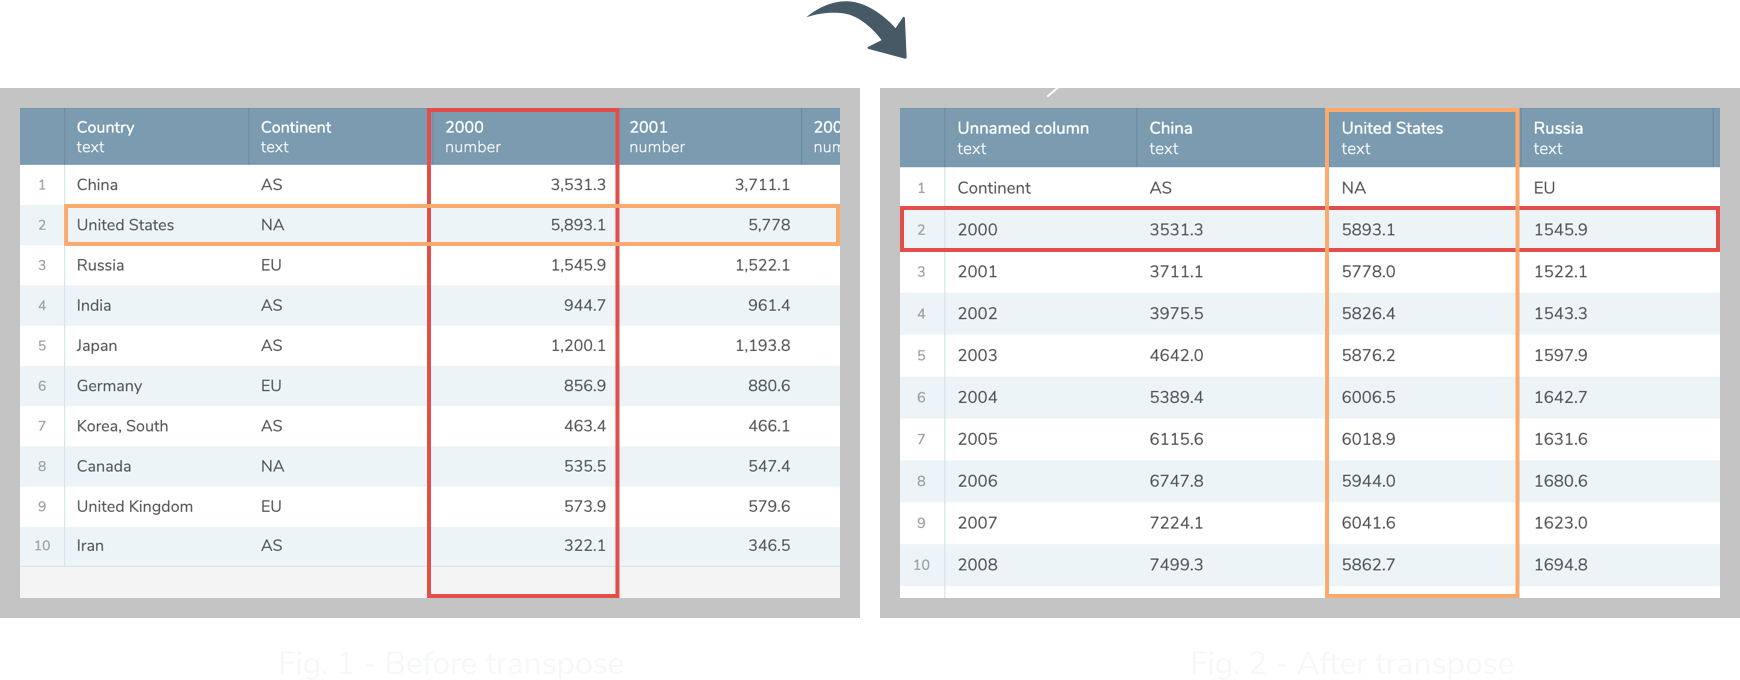
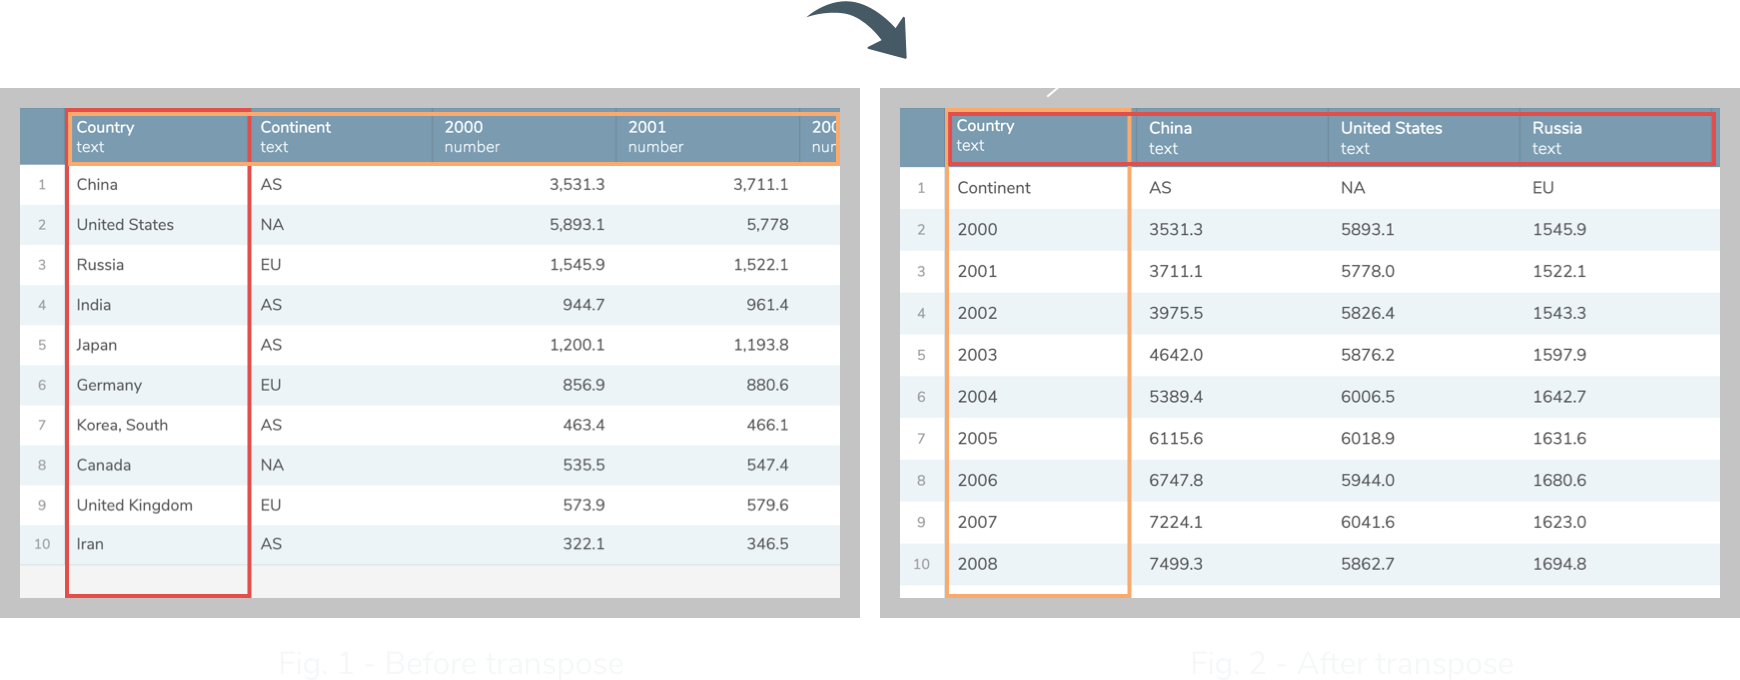
Course WIP

diff --git a/server/lessons/hidden/charts-intro.html b/server/lessons/hidden/charts-intro.html
@@ -35,23 +35,23 @@
 <section>
   <h2>When to transpose</h2>
   <p>
-    Let’s look closely at our table.
+    Let’s look closely at our table.</br>
+    In Workbench charts are plotted by selecting data in columns.
   </p>
-  <p>
-    In Workbench charts are plotted by selecting data in columns. We cannot select <kbd>China</kbd>, because it is displayed as a row.<br>
+    We cannot select <kbd>China</kbd>, because it is displayed as a row.<br>
     Likewise, there is no column <kbd>Year</kbd> to select. Instead, each year is its own column.
-    <br />
   </p>
-  <p class="instruction-detail"> If we want to select variables that are displayed as rows, we must turn them into columns. This is called transposing.
+  <p class="instruction-detail">
+    If we want to select variables that are displayed as rows, we must turn them into columns. This is called transposing.
   </p>
 </section>
 <section class="fullscreen">
   <h2>How Transpose works</h2>
   <p>
-    Transposing turns rows into columns and columns into rows. Doing so, it swaps the header with the left-most column.
+    Transposing swaps the header with the left-most column. Doing so, it turns rows into columns and columns into rows.
   </p>
   <p>
-    Since the header in fig.1 does not have a name, we have to name it when it becomes the new left-most column in fig.2. Likewise, after transposing, the name of the left-most column in fig.1 will not be displayed anymore in fig.2.
+    Since the left-most column in fig.1 becomes a header in fig.2, you will often have to rename the name of the new left-most column in fig.2.
   </p>
   <figure class="full">
     <img class="no-border" alt="Inspect element" src="images/course-1/transpose-fig-1.png">
@@ -70,12 +70,16 @@
     <li
       data-highlight='[{"type":"Module","index":0,"name":"Add from URL"}]'
       data-test="return workflow.tabs[0].wfModuleNames[0] === 'Add from URL'"
-      >Click the <kbd>Continent</kbd> column menu and choose <kbd>Delete column</kbd>.
+      >Click the<kbd>Continent</kbd>column menu
+      <span>
+        <img class="icon-insert" src="images/lesson-icons/menu.svg">
+      </span>
+      and choose<kbd>Delete column</kbd>.
     </li>
     <li
       data-highlight='[{"type":"Module","index":0,"name":"Add from URL"}]'
       data-test="return workflow.tabs[0].wfModuleNames[0] === 'Add from URL'"
-      >Add a Transpose step and name the new leftmost column <kbd>Year</kbd>.
+      >Add a Transpose step and name the new leftmost column<kbd>Year</kbd>.
       <p class="instruction-detail">
         Now we can plot China’s output.
       </p>
@@ -83,7 +87,7 @@
     <li
       data-highlight='[{"type":"Module","index":0,"name":"Add from URL"}]'
       data-test="return workflow.tabs[0].wfModuleNames[0] === 'Add from URL'"
-      >Add a Column Chart, select <kbd>Year</kbd> as the X axis, and <kbd>China</kbd> as the Y axis.
+      >Add a Column Chart, select<kbd>Year</kbd> as the X axis, and<kbd>China</kbd>as the Y axis.
     </li>
   </ol>
 </section>
@@ -97,7 +101,7 @@
     Line charts, however, should not be used with anything else than a horizontal axis representing time. Drawing a line between ’China’ and ‘Russia’, would make no sense: There is no in-between value, and the chart would show something that doesn’t exist!
   </p>
   <figure class="full">
-    <img class="no-border" alt="Inspect element" src="images/course-1/when-to-use-line-chart.png">
+    <img alt="Inspect element" src="images/course-1/when-to-use-line-chart.png">
   </figure>
 </section>
 <section>
@@ -109,18 +113,21 @@
     <li
       data-highlight='[{"type":"Module","index":0,"name":"Add from URL"}]'
       data-test="return workflow.tabs[0].wfModuleNames[0] === 'Add from URL'"
-      > In step 4, Replace the column chart with a line chart.
+      > After the Column chart, add a Line chart step.
     </li>
     <li
       data-highlight='[{"type":"Module","index":0,"name":"Add from URL"}]'
       data-test="return workflow.tabs[0].wfModuleNames[0] === 'Add from URL'"
-      >Select the variable <kbd>Year</kbd> as the X axis and  <kbd>China</kbd> on the Y axis.
+      >Select the variable<kbd>Year</kbd>as the X axis and<kbd>China</kbd>on the Y axis.
       <p class="instruction-detail">Now let’s compare China’s production of CO2 to that of other countries.</p>
     </li>
     <li
       data-highlight='[{"type":"Module","index":0,"name":"Add from URL"}]'
       data-test="return workflow.tabs[0].wfModuleNames[0] === 'Add from URL'"
-      >In Line chart, select 4 additional countries of your choice on the Y axis.
+      >In Line chart, select 4 additional countries of your choice on the Y axis by clicking the add button
+      <span>
+        <img class="icon-insert" src="images/lesson-icons/add.svg">
+      </span>.
     </li>
   </ol>
 </section>

diff --git a/assets/css/components/Lesson.scss b/assets/css/components/Lesson.scss
@@ -22,10 +22,13 @@ article.lesson {
     width: 32rem;
     padding: 1rem;
     background-color: $dark-accent--medium;
-    &.icon-insert {
-      padding:0;
-      background-color: transparent;
-    }
+  }
+
+  .icon-insert {
+    padding:0;
+    background-color: transparent;
+    padding: .5rem;
+    width:3rem;
   }
 
   section {
@@ -144,15 +147,10 @@ article.lesson {
       font-weight: normal;
       color: $brand-text--learn;
       background-color: transparent;
+      margin: 0 .2rem;
     }
 
     .icon-insert {
-      @extend .content-1;
-      margin: 0 .5rem;
-      padding: .5rem;
-      width:2.7rem;
-      border-radius: 3px;
-      background-color: $light-accent--soft;
 
     }
 
@@ -311,7 +309,7 @@ article.fullscreen {
   }
 
   figure.full img {
-    padding: 0;
+    padding: 1rem;
     margin-top: 2rem;
     width: 100%;
     &.no-border {

diff --git a/server/lessons/load-public-data.html b/server/lessons/load-public-data.html
@@ -20,7 +20,7 @@
     <li
       data-highlight='[{"type":"WfModule","moduleName":"Add from URL"}]'
       data-test="const wfModule = workflow.tabs[0].wfModules[0]; return wfModule && wfModule.params.url === 'http://production-static.workbenchdata.com/data/affordable_housing_1.csv' && wfModule.selectedVersion"
-      >Paste the URL of the dataset in the field. Click <kbd>Update</kbd> to load the data.
+      >Paste the URL of the dataset in the field. Click<kbd>Update</kbd>to load the data.
       <div class="copy-txt">http://production-static.workbenchdata.com/data/affordable_housing_1.csv</div>
     </li>
     <li
